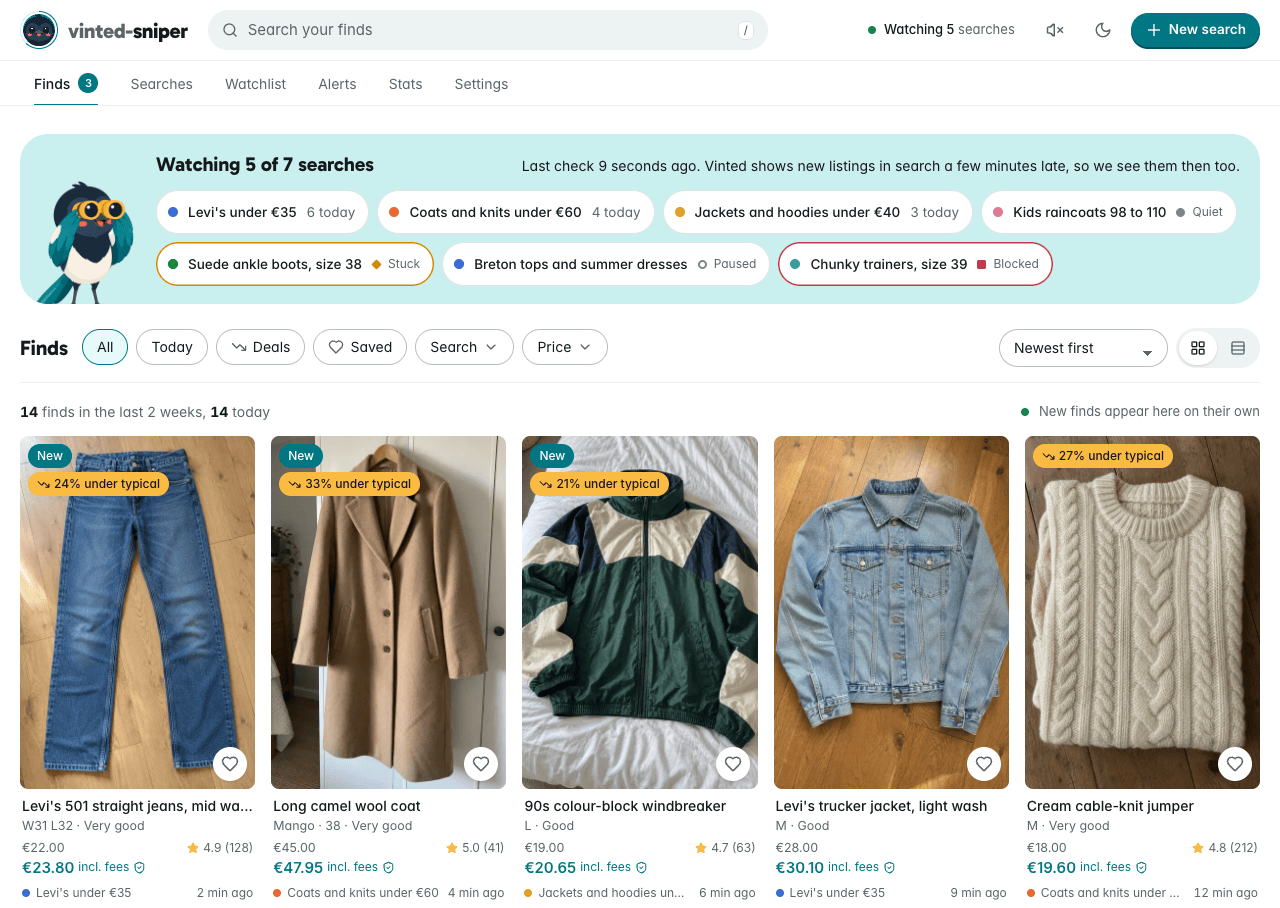
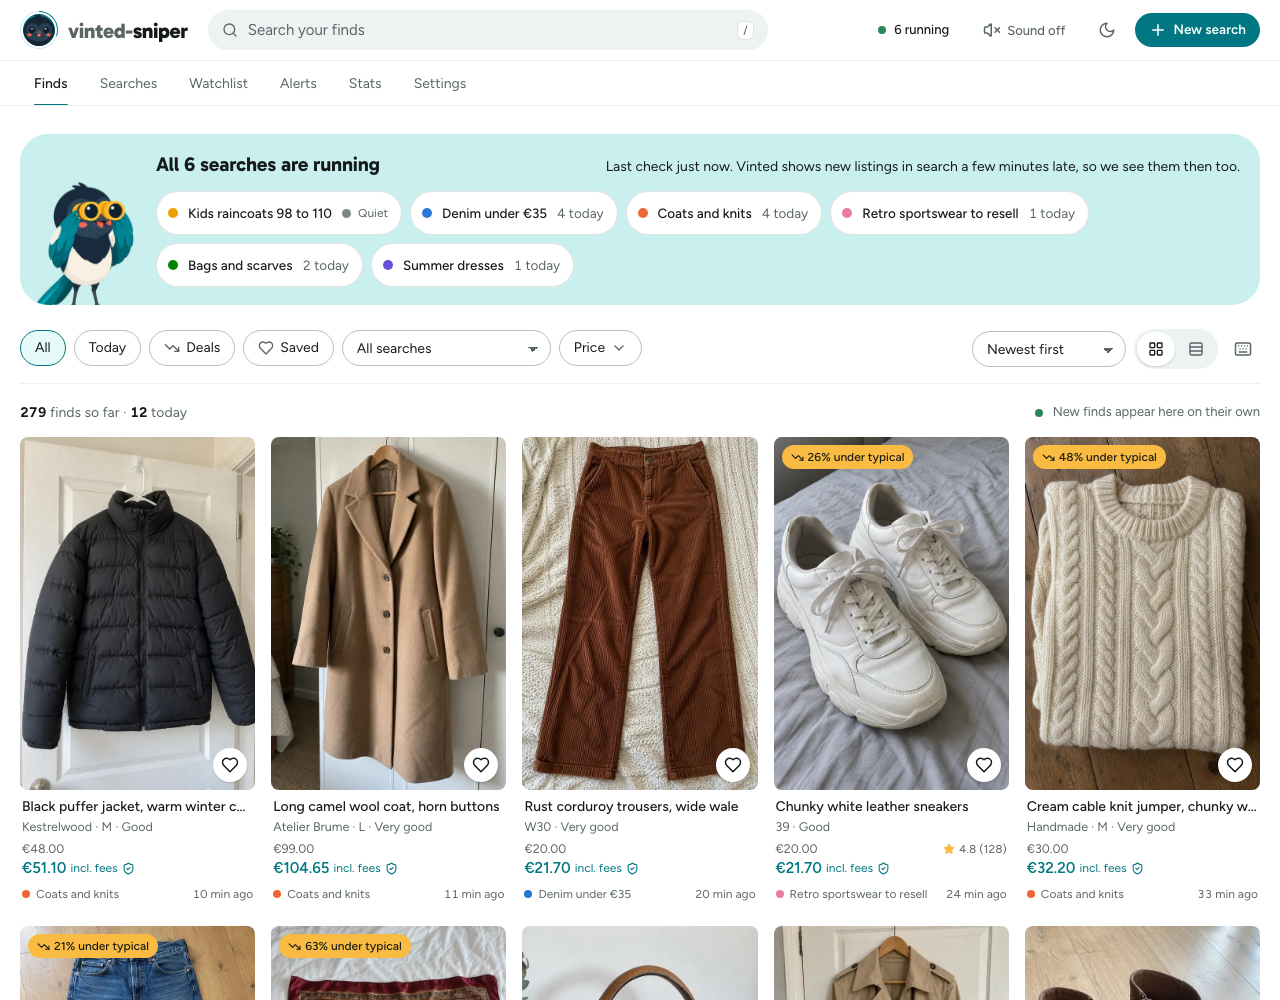
Release as 2.0.0, show the real dashboard in the README, and vary the demo finds

diff --git a/scripts/seed_demo.py b/scripts/seed_demo.py
@@ -22,6 +22,7 @@ from __future__ import annotations
 
 import argparse
 import asyncio
+import itertools
 import json
 import random
 import secrets
@@ -179,9 +180,12 @@ async def seed(
                     * Decimal("1.12")
                 ).quantize(Decimal("0.01"))
             }
+            # Walk the search's photos in a shuffled cycle rather than picking at random,
+            # so neighbouring finds in the feed are different listings.
+            order = itertools.cycle(rng.sample(slugs, len(slugs)))
             for day in range(days, -1, -1):
                 for _ in range(rng.randint(0, 3 if day else 4)):
-                    slug = rng.choice(slugs)
+                    slug = next(order)
                     entry = catalog[slug]
                     price = (
                         Decimal(str(entry["price"])) * Decimal(str(rng.uniform(0.7, 1.2)))

diff --git a/src/vinted_sniper/__init__.py b/src/vinted_sniper/__init__.py
@@ -1,3 +1,3 @@
 """Watch Vinted searches and get notified when something matches."""
 
-__version__ = "0.1.0"
+__version__ = "2.0.0"
